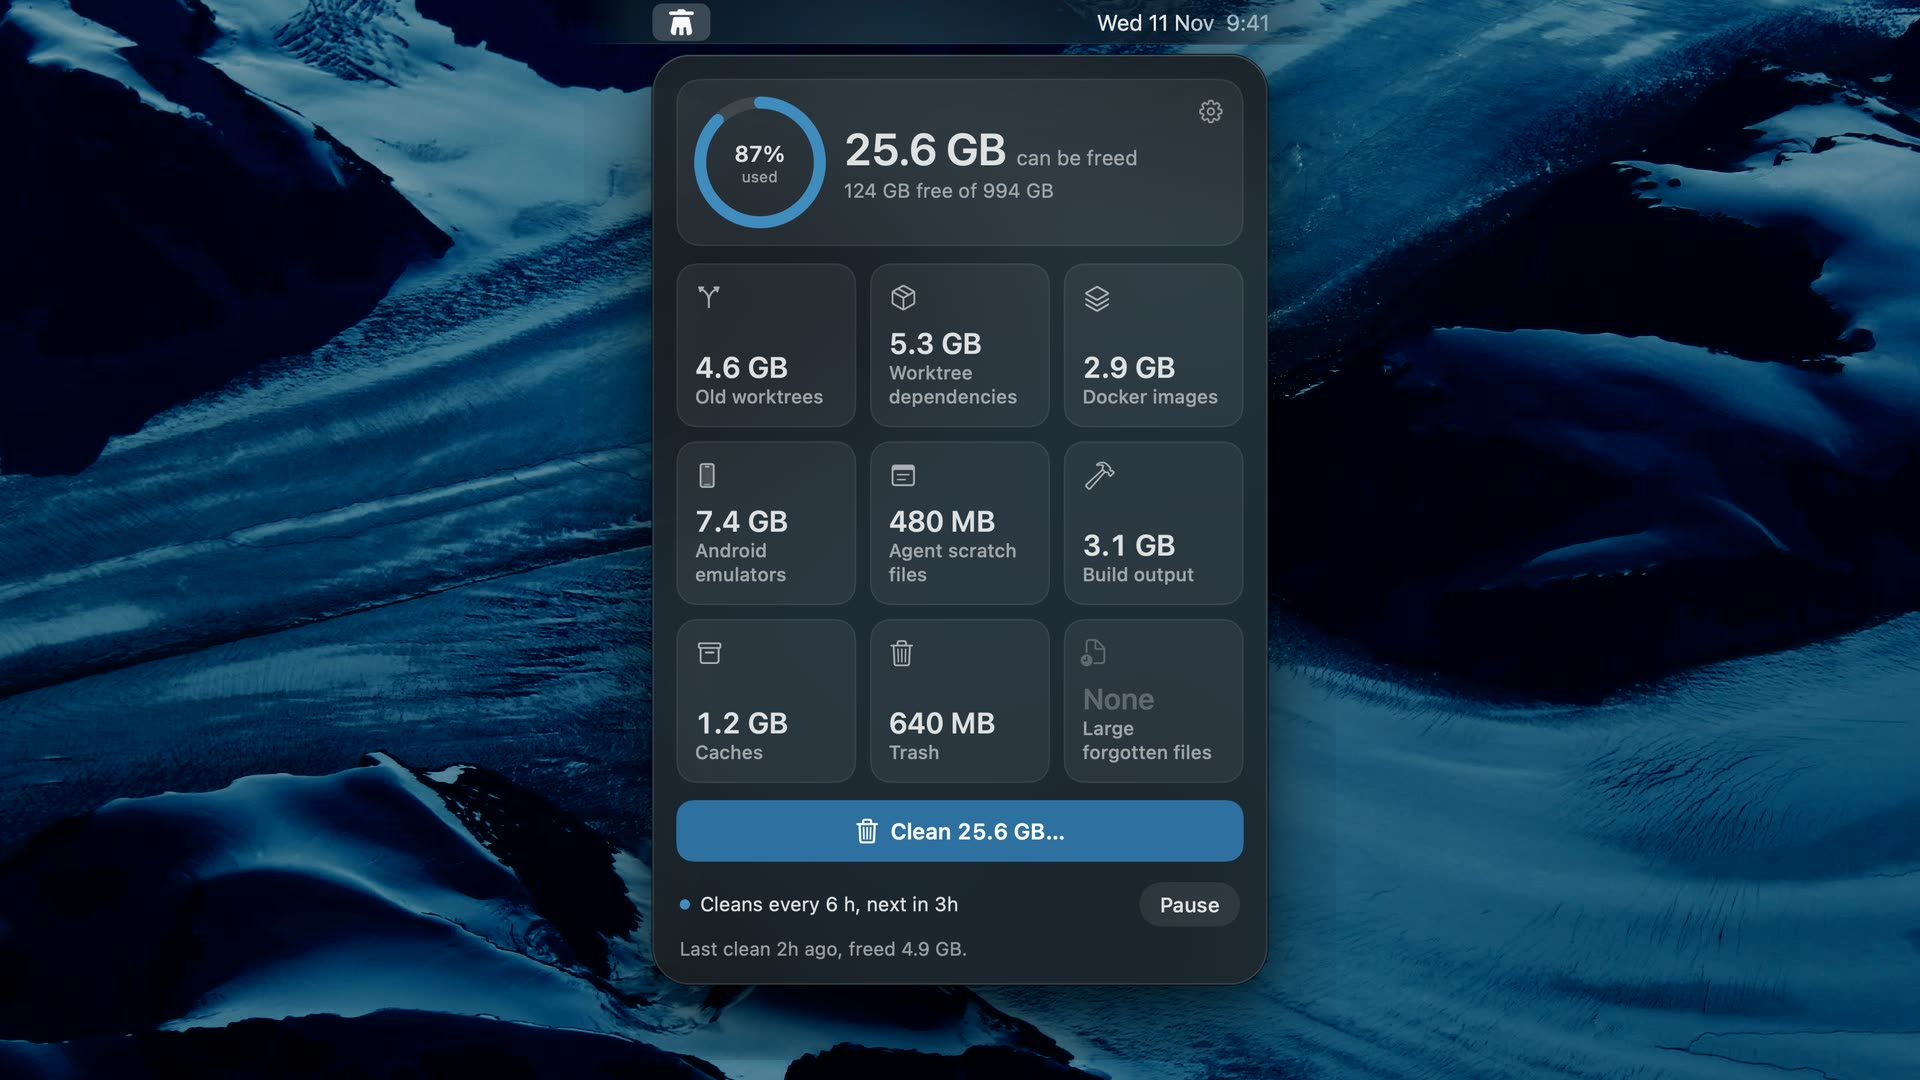
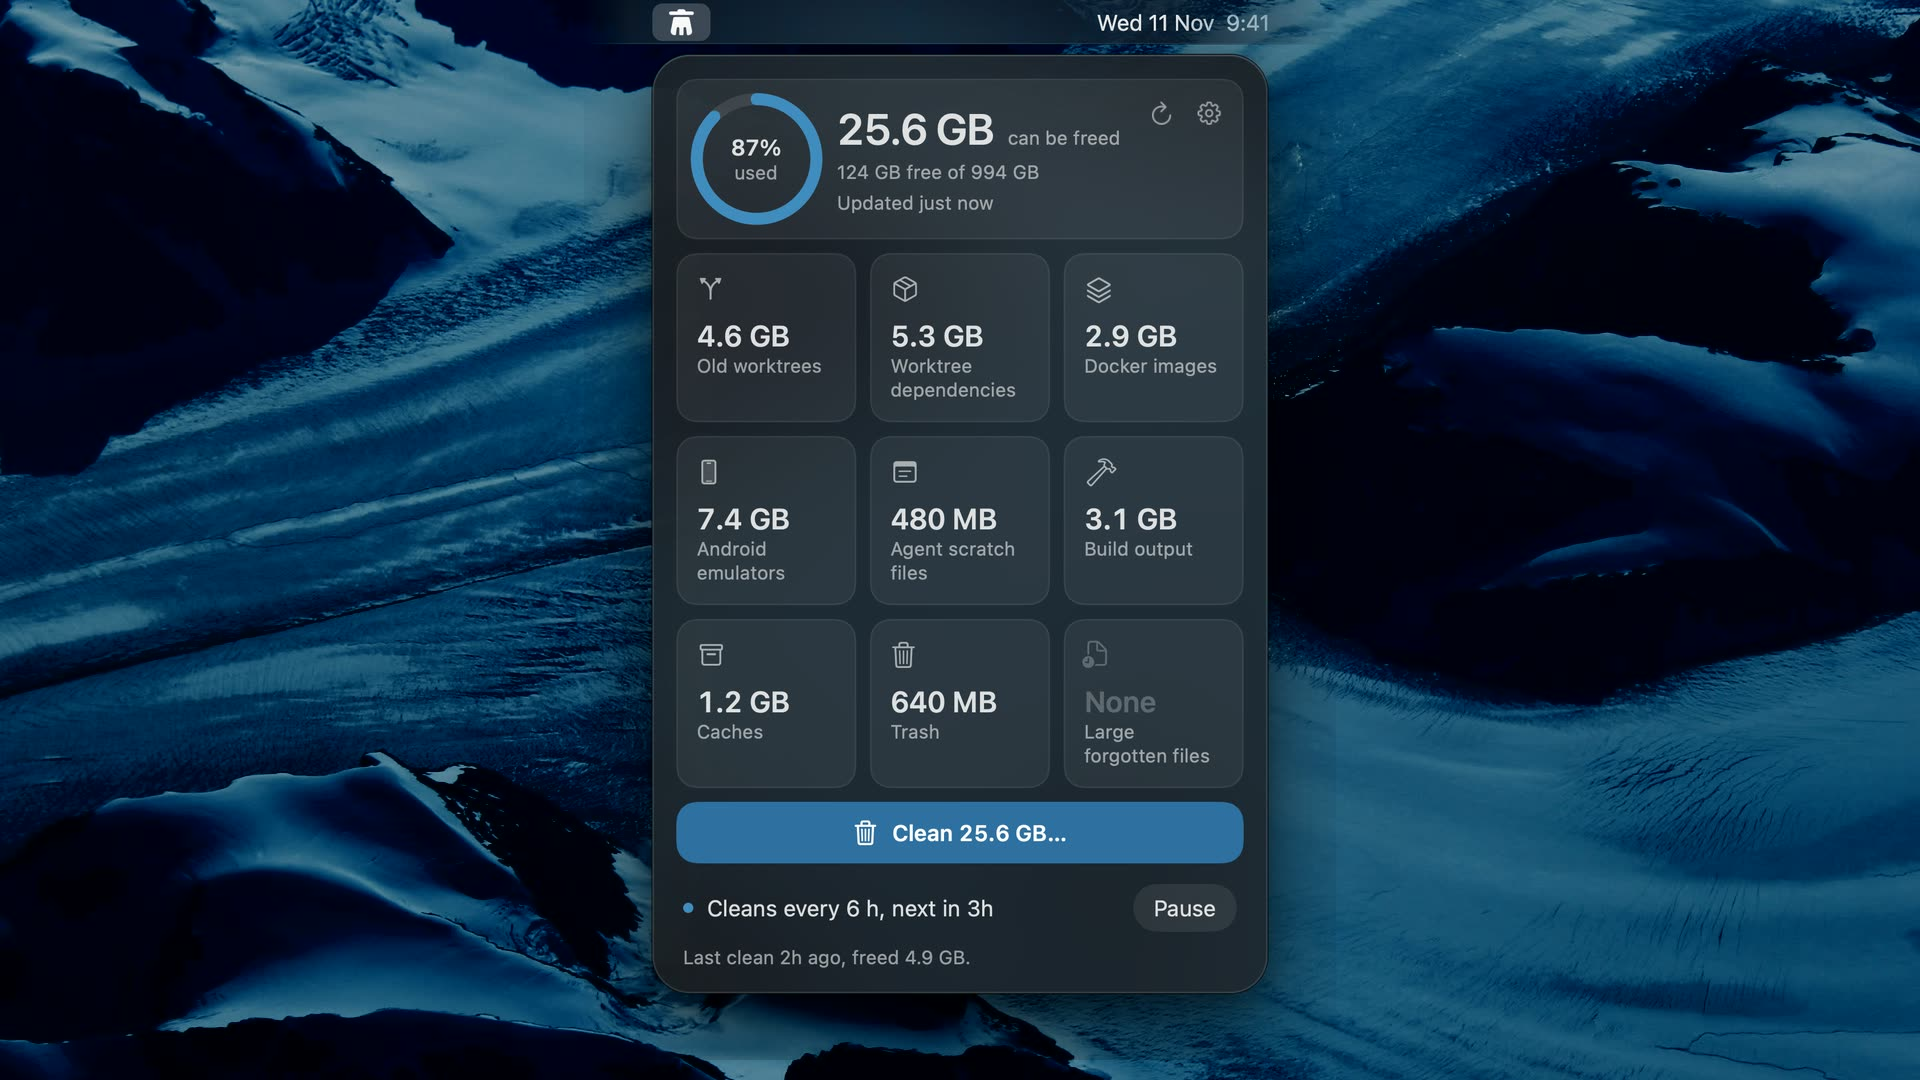
Apply the design rules to the site
Type tokens and the 4-point scale in styles.css, one hero button until the demo
video exists, a border-only hero card and the panel image re-rendered from the
current app.

diff --git a/site/styles.css b/site/styles.css
@@ -8,6 +8,10 @@
   --sans: "Geist", system-ui, -apple-system, sans-serif;
   --mono: "Geist Mono", ui-monospace, "SF Mono", Menlo, monospace;
   --col: 1080px;
+  --title: clamp(36px, 5.4vw, 56px);
+  --heading: clamp(24px, 3.4vw, 32px);
+  --body: 16px;
+  --label: 13px;
   --spring: cubic-bezier(.3, 1.5, .5, 1);
   color-scheme: dark;
 }
@@ -19,43 +23,43 @@ body {
   background: var(--bg);
   color: var(--fg);
   font-family: var(--sans);
-  font-size: 16px;
-  line-height: 1.55;
+  font-size: var(--body);
+  line-height: 1.5;
   -webkit-font-smoothing: antialiased;
 }
 img { display: block; max-width: 100%; height: auto; }
+[hidden] { display: none !important; }
 a { color: inherit; }
 a, button, summary { cursor: pointer; -webkit-tap-highlight-color: transparent; }
-:focus-visible { outline: 2px solid var(--fg); outline-offset: 3px; border-radius: 10px; }
+:focus-visible { outline: 2px solid var(--fg); outline-offset: 4px; border-radius: 12px; }
 
 .wrap { width: 100%; max-width: var(--col); margin: 0 auto; padding-inline: max(20px, env(safe-area-inset-left, 0px)) max(20px, env(safe-area-inset-right, 0px)); }
 
-.nav { position: relative; z-index: 3; display: flex; align-items: center; justify-content: space-between; padding-block: 22px; }
-.brand { display: inline-flex; align-items: center; gap: 10px; font-weight: 600; font-size: 16px; letter-spacing: -0.01em; text-decoration: none; }
-.brand img { width: 30px; height: 30px; border-radius: 7px; }
-.brand.small { gap: 8px; font-size: 12.5px; }
-.brand.small img { width: 18px; height: 18px; border-radius: 4px; }
-.links { display: flex; align-items: center; gap: 2px; margin-right: -8px; }
-.links a { display: inline-flex; align-items: center; height: 36px; padding: 0 12px; border-radius: 10px; font-size: 14px; color: var(--muted); text-decoration: none; transition: background .15s ease, color .15s ease; }
+.nav { position: relative; z-index: 3; display: flex; align-items: center; justify-content: space-between; padding-block: 24px; }
+.brand { display: inline-flex; align-items: center; gap: 8px; font-weight: 600; font-size: var(--body); letter-spacing: -0.01em; text-decoration: none; }
+.brand img { width: 32px; height: 32px; border-radius: 8px; }
+.brand.small { font-size: var(--label); }
+.brand.small img { width: 16px; height: 16px; border-radius: 4px; }
+.links { display: flex; align-items: center; gap: 4px; margin-right: -8px; }
+.links a { display: inline-flex; align-items: center; height: 36px; padding: 0 12px; border-radius: 12px; font-size: var(--label); color: var(--muted); text-decoration: none; transition: background .15s ease, color .15s ease; }
 .links a:hover { background: var(--fill); color: var(--fg); }
 .links .icon { width: 36px; padding: 0; justify-content: center; color: var(--fg); }
-.links svg { width: 18px; height: 18px; fill: currentColor; }
+.links svg { width: 20px; height: 20px; fill: currentColor; }
 
-h1 { margin: 0; font-weight: 600; font-size: clamp(36px, 5.4vw, 56px); line-height: 1.03; letter-spacing: -0.035em; text-wrap: balance; }
-h2 { margin: 0; font-weight: 600; font-size: clamp(28px, 3.4vw, 38px); line-height: 1.08; letter-spacing: -0.03em; text-wrap: balance; }
-.lede { margin: 0; max-width: 34ch; font-size: 18px; line-height: 1.55; color: var(--muted); text-wrap: pretty; }
+h1 { margin: 0; font-weight: 600; font-size: var(--title); line-height: 1.1; letter-spacing: -0.035em; text-wrap: balance; }
+h2 { margin: 0; font-weight: 600; font-size: var(--heading); line-height: 1.15; letter-spacing: -0.03em; text-wrap: balance; }
+.lede { margin: 0; max-width: 40ch; font-size: var(--body); line-height: 1.5; color: var(--muted); text-wrap: pretty; }
 
-.btn { display: inline-flex; align-items: center; gap: 9px; height: 46px; padding: 0 20px; border: 0; border-radius: 12px; font: 500 15px var(--sans); text-decoration: none; transition: transform .15s ease, background .15s ease; }
+.btn { display: inline-flex; align-items: center; gap: 8px; height: 48px; padding: 0 24px; border: 0; border-radius: 12px; font: 600 var(--body) var(--sans); text-decoration: none; transition: transform .15s ease, background .15s ease; }
 .btn:hover { transform: translateY(-1px); }
-.btn svg { width: 15px; height: 15px; fill: currentColor; }
+.btn svg { width: 16px; height: 16px; fill: currentColor; }
 .btn.main { background: #fff; color: #000; }
 .btn.main svg { margin-top: -2px; }
 .btn.ghost { background: rgba(255, 255, 255, 0.14); color: var(--fg); }
 .btn.ghost:hover { background: rgba(255, 255, 255, 0.2); }
-.btn.ghost svg { width: 13px; height: 13px; }
-.meta { margin: 0; font: 400 11.5px var(--mono); color: var(--muted); }
+.meta { margin: 0; font: 400 var(--label) var(--mono); color: var(--muted); }
 
-.stage { position: relative; isolation: isolate; overflow: hidden; display: flex; flex-direction: column; min-height: clamp(640px, 100svh, 980px); padding-bottom: 72px; background: #000; }
+.stage { position: relative; isolation: isolate; overflow: hidden; display: flex; flex-direction: column; min-height: clamp(640px, 100svh, 980px); padding-bottom: 64px; background: #000; }
 .photo { position: absolute; inset: 0; z-index: -2; }
 .photo img { width: 100%; height: 100%; object-fit: cover; filter: brightness(.5) saturate(.92); }
 .stage::before {
@@ -67,84 +71,78 @@ h2 { margin: 0; font-weight: 600; font-size: clamp(28px, 3.4vw, 38px); line-heig
 }
 
 .intro {
-  position: relative; z-index: 2; margin: auto; width: calc(100% - 40px); max-width: 580px; padding: 42px 32px 34px;
+  position: relative; z-index: 2; margin: auto; width: calc(100% - 40px); max-width: 580px; padding: 48px 32px 32px;
   display: flex; flex-direction: column; align-items: center; gap: 16px; text-align: center;
-  border-radius: 26px; background: rgba(10, 10, 10, 0.42);
-  box-shadow: inset 0 0 0 1px rgba(255, 255, 255, 0.12), 0 30px 80px -30px rgba(0, 0, 0, 0.6);
+  border-radius: 24px; background: rgba(10, 10, 10, 0.42);
+  box-shadow: inset 0 0 0 1px rgba(255, 255, 255, 0.12);
   backdrop-filter: blur(20px) saturate(1.1); -webkit-backdrop-filter: blur(20px) saturate(1.1);
   animation: rise .7s var(--spring) both;
 }
 .intro .lede { color: rgba(255, 255, 255, 0.76); }
-.ctas { display: flex; flex-wrap: wrap; justify-content: center; gap: 10px; margin-top: 8px; }
+.ctas { display: flex; flex-wrap: wrap; justify-content: center; gap: 8px; margin-top: 8px; }
 @keyframes rise { from { opacity: 0; transform: translateY(18px); } to { opacity: 1; transform: none; } }
 
-.tour { display: grid; grid-template-columns: minmax(0, 0.9fr) minmax(0, 1fr); gap: 72px; align-items: center; padding-block: 56px 96px; }
+.tour { display: grid; grid-template-columns: minmax(0, 0.9fr) minmax(0, 1fr); gap: 64px; align-items: center; padding-block: 64px 96px; }
 .shot img { display: block; width: 100%; max-width: 500px; height: auto; margin-inline: auto; }
 .tour-copy p { margin: 16px 0 0; max-width: 46ch; color: var(--muted); }
-.rows { list-style: none; margin: 28px 0 0; padding: 0; border-top: 1px solid var(--line); }
-.rows li { display: flex; justify-content: space-between; align-items: baseline; gap: 20px; padding: 13px 0; border-bottom: 1px solid var(--line); font-size: 15px; }
-.rows b { flex: none; font-weight: 500; }
+.rows { list-style: none; margin: 24px 0 0; padding: 0; border-top: 1px solid var(--line); }
+.rows li { display: flex; justify-content: space-between; align-items: baseline; gap: 24px; padding: 12px 0; border-bottom: 1px solid var(--line); }
+.rows b { flex: none; font-weight: 600; }
 .rows span { color: var(--faint); text-align: right; text-wrap: balance; }
-.more { display: inline-flex; align-items: center; gap: 8px; margin-top: 26px; font-size: 15px; font-weight: 500; text-decoration: none; border-bottom: 1px solid var(--faint); padding-bottom: 2px; transition: border-color .15s ease; }
+.more { display: inline-flex; align-items: center; gap: 8px; margin-top: 24px; font-weight: 600; text-decoration: none; border-bottom: 1px solid var(--faint); padding-bottom: 4px; transition: border-color .15s ease; }
 .more:hover { border-color: var(--fg); }
 
-.foot { display: flex; flex-wrap: wrap; align-items: center; gap: 12px 22px; padding-block: 32px 48px; border-top: 1px solid var(--line); font: 400 12px var(--mono); color: var(--faint); }
+.foot { display: flex; flex-wrap: wrap; align-items: center; gap: 12px 24px; padding-block: 32px 48px; border-top: 1px solid var(--line); font: 400 var(--label) var(--mono); color: var(--faint); }
 .foot a { color: var(--fg); text-decoration: none; border-bottom: 1px solid var(--line); }
 .foot a:hover { border-color: var(--fg); }
 .foot .credits { flex-basis: 100%; }
 
 .page .nav { border-bottom: 1px solid var(--line); }
-.intro-page { padding-block: 72px 56px; }
-.intro-page .lede { margin-top: 18px; max-width: 52ch; }
+.intro-page { padding-block: 64px 48px; }
+.intro-page .lede { margin-top: 16px; max-width: 52ch; }
 .band { padding-block: 64px; border-top: 1px solid var(--line); }
 .split { display: grid; grid-template-columns: 1fr 1fr; gap: 64px; }
 .sub { margin: 12px 0 0; max-width: 46ch; color: var(--muted); }
 .list { list-style: none; margin: 28px 0 0; padding: 0; border-top: 1px solid var(--line); }
-.list li { padding: 14px 0; border-bottom: 1px solid var(--line); color: var(--muted); }
-.list b { color: var(--fg); font-weight: 500; }
+.list li { padding: 16px 0; border-bottom: 1px solid var(--line); color: var(--muted); }
+.list b { color: var(--fg); font-weight: 600; }
 figure { margin: 0; }
 
 .faq { padding-block: 64px; border-top: 1px solid var(--line); }
 .faq h2 { margin-bottom: 16px; }
 .faq-list { max-width: 720px; }
 details { border-bottom: 1px solid var(--line); }
-summary { list-style: none; display: flex; justify-content: space-between; align-items: center; gap: 16px; padding: 18px 0; font-weight: 500; font-size: 17px; border-radius: 0; }
+summary { list-style: none; display: flex; justify-content: space-between; align-items: center; gap: 16px; padding: 16px 0; font-weight: 600; border-radius: 0; }
 summary::-webkit-details-marker { display: none; }
-summary::after { content: "+"; font: 400 20px var(--mono); color: var(--faint); transition: transform .25s var(--spring); }
+summary::after { content: "+"; font: 400 var(--body) var(--mono); color: var(--faint); transition: transform .25s var(--spring); }
 details[open] summary::after { transform: rotate(45deg); }
-details p { margin: 0 0 20px; max-width: 62ch; color: var(--muted); }
+details p { margin: 0 0 16px; max-width: 62ch; color: var(--muted); }
 
-.player { width: min(1100px, calc(100vw - 32px)); max-width: none; padding: 0; border: 0; border-radius: 18px; background: #000; color: var(--fg); overflow: visible; box-shadow: 0 0 0 1px var(--line), 0 40px 90px -30px rgba(0, 0, 0, 0.9); }
+.player { width: min(1100px, calc(100vw - 32px)); max-width: none; padding: 0; border: 0; border-radius: 24px; background: #000; color: var(--fg); overflow: visible; box-shadow: 0 0 0 1px var(--line); }
 .player::backdrop { background: rgba(0, 0, 0, 0.8); backdrop-filter: blur(8px); -webkit-backdrop-filter: blur(8px); }
 .player[open] { animation: pop .35s var(--spring) both; }
 @keyframes pop { from { opacity: 0; transform: scale(.96); } to { opacity: 1; transform: none; } }
-.frame { aspect-ratio: 16 / 9; border-radius: 18px; overflow: hidden; background: #000; }
-.frame video, .soon img { display: block; width: 100%; height: 100%; object-fit: cover; }
-.soon { position: relative; height: 100%; }
-.soon img { filter: brightness(0.55); }
-.soon-note { position: absolute; left: 50%; bottom: 28px; transform: translateX(-50%); display: flex; flex-direction: column; align-items: center; gap: 4px; padding: 14px 20px; border-radius: 14px; text-align: center; background: rgba(0, 0, 0, 0.6); box-shadow: inset 0 0 0 1px var(--line); backdrop-filter: blur(12px); -webkit-backdrop-filter: blur(12px); }
-.soon-note b { font-weight: 600; font-size: 16px; }
-.soon-note span { font-size: 13.5px; color: var(--muted); }
-.close { position: absolute; top: -14px; right: -14px; width: 36px; height: 36px; border-radius: 50%; border: 0; display: grid; place-items: center; background: #fff; color: #000; box-shadow: 0 8px 20px -8px rgba(0, 0, 0, 0.8); transition: transform .2s var(--spring); }
+.frame { aspect-ratio: 16 / 9; border-radius: 24px; overflow: hidden; background: #000; }
+.frame video { display: block; width: 100%; height: 100%; object-fit: cover; }
+.close { position: absolute; top: -16px; right: -16px; width: 36px; height: 36px; border-radius: 50%; border: 0; display: grid; place-items: center; background: #fff; color: #000; transition: transform .2s var(--spring); }
 .close:hover { transform: scale(1.08); }
-.close svg { width: 14px; height: 14px; stroke: currentColor; stroke-width: 2.2; stroke-linecap: round; fill: none; }
+.close svg { width: 16px; height: 16px; stroke: currentColor; stroke-width: 2.2; stroke-linecap: round; fill: none; }
 
 @media (max-width: 900px) {
-  .tour, .split { grid-template-columns: minmax(0, 1fr); gap: 44px; }
+  .tour, .split { grid-template-columns: minmax(0, 1fr); gap: 48px; }
   .shot img { max-width: 400px; }
-  .tour { row-gap: 20px; }
+  .tour { row-gap: 24px; }
 }
 
 @media (max-width: 640px) {
-  .lede { font-size: 16.5px; }
-  .intro { padding: 30px 18px 26px; border-radius: 22px; }
+  .intro { padding: 32px 16px 24px; }
   .ctas { width: 100%; flex-direction: column; }
   .btn { justify-content: center; }
-  .rows li { flex-direction: column; gap: 2px; }
+  .rows li { flex-direction: column; gap: 4px; }
   .rows span { text-align: left; }
   .page .links a:not(.icon):not(.home-link) { display: none; }
-  .soon-note { bottom: 12px; padding: 10px 14px; width: calc(100% - 24px); }
-  .close { top: -44px; right: 0; }
+  .close { top: -48px; right: 0; }
+
 }
 
 @media (prefers-reduced-motion: reduce) {

diff --git a/site/index.html b/site/index.html
@@ -67,7 +67,7 @@
           <svg viewBox="0 0 24 24" aria-hidden="true"><path d="M16.4 12.6c0-2.4 2-3.5 2-3.6-1.1-1.6-2.8-1.8-3.4-1.8-1.4-.2-2.8.9-3.5.9-.7 0-1.9-.8-3.1-.8-1.6 0-3 .9-3.8 2.3-1.6 2.8-.4 7 1.2 9.3.8 1.1 1.7 2.4 2.9 2.3 1.2 0 1.6-.7 3-.7s1.8.7 3.1.7c1.3 0 2.1-1.1 2.8-2.3.9-1.3 1.3-2.5 1.3-2.6 0 0-2.5-1-2.5-3.7zM14.1 5.5c.6-.8 1.1-1.9 1-3-.9 0-2.1.6-2.7 1.4-.6.7-1.1 1.8-1 2.9 1 .1 2.1-.5 2.7-1.3z"/></svg>
           Download for Mac
         </a>
-        <button class="btn ghost" type="button" id="watch" aria-haspopup="dialog">
+        <button class="btn ghost" type="button" id="watch" aria-haspopup="dialog" hidden>
           <svg viewBox="0 0 24 24" aria-hidden="true"><path d="M8 5.2v13.6a1 1 0 0 0 1.5.86l11-6.8a1 1 0 0 0 0-1.72l-11-6.8A1 1 0 0 0 8 5.2z"/></svg>
           Watch video
         </button>
@@ -113,15 +113,7 @@
   </button>
 </dialog>
 
-<template id="soon">
-  <div class="soon">
-    <img src="assets/demo-poster.jpg" alt="">
-    <div class="soon-note">
-      <b>Video coming soon</b>
-      <span>A short tour of a scan and a clean is on its way.</span>
-    </div>
-  </div>
-</template>
+
 
 <script src="player.js" defer></script>
 <script src="toy.js" defer></script>

diff --git a/scripts/panel.html b/scripts/panel.html
@@ -11,9 +11,10 @@ html,body{margin:0;background:transparent}
 .glyph{left:40px;width:34px;border-radius:6px;background:rgba(255,255,255,.2)}
 .glyph i{width:18px;height:18px;background:#fff;-webkit-mask:url(../assets/menubar.svg) center/contain no-repeat}
 .clock{left:300px}
-.panel{--x:40px;--y:32px;left:40px;top:32px;width:360px;height:544px;border-radius:22px;box-shadow:0 0 0 .5px rgba(0,0,0,.9),0 24px 60px rgba(0,0,0,.55),0 8px 20px rgba(0,0,0,.35)}
+.panel{--x:40px;--y:32px;left:40px;top:32px;width:360px;border-radius:22px;box-shadow:0 0 0 .5px rgba(0,0,0,.9),0 24px 60px rgba(0,0,0,.55),0 8px 20px rgba(0,0,0,.35)}
 .panel::after{content:"";position:absolute;inset:0;z-index:-1;border-radius:inherit;background:rgba(30,31,34,.84);box-shadow:inset 0 0 0 1px rgba(255,255,255,.1),inset 0 1px rgba(255,255,255,.08)}
-.panel img{display:block;width:360px;height:544px}
+.panel img{display:block;width:360px;height:auto}
+
 </style>
 <div class=scene>
   <div class="glass bar"><span class="item glyph"><i></i></span><span class="item clock">Wed 11 Nov&nbsp;&nbsp;9:41</span></div>

diff --git a/site/player.js b/site/player.js
@@ -14,7 +14,7 @@ async function videoExists() {
   }
 }
 
-function showVideo() {
+function open() {
   const video = document.createElement('video');
   video.src = VIDEO;
   video.poster = POSTER;
@@ -22,24 +22,21 @@ function showVideo() {
   video.autoplay = true;
   video.playsInline = true;
   frame.replaceChildren(video);
-}
-
-function showComingSoon() {
-  frame.replaceChildren(document.getElementById('soon').content.cloneNode(true));
-}
-
-async function open() {
-  frame.replaceChildren();
   player.showModal();
-  if (await videoExists()) {
-    showVideo();
-  } else {
-    showComingSoon();
-  }
 }
 
 function close() {
   player.close();
+}
+
+async function offerVideo() {
+  if (!(await videoExists())) {
+    return;
+  }
+  watch.hidden = false;
+  if (location.hash === '#video') {
+    open();
+  }
 }
 
 watch.addEventListener('click', open);
@@ -51,6 +48,4 @@ player.addEventListener('click', event => {
 });
 player.addEventListener('close', () => frame.replaceChildren());
 
-if (location.hash === '#video') {
-  open();
-}
+offerVideo();

diff --git a/docs/design-rules.md b/docs/design-rules.md
@@ -81,7 +81,15 @@ before doing it.
 ## Site
 
 - The same palette, one accent, four type sizes and the 4-point scale apply to
-  site/. Every link and button gets `cursor: pointer`.
+  site/. The sizes are tokens in styles.css: `--title` (36 to 56), `--heading`
+  (24 to 32), `--body` 16, `--label` 13. Weights 400 and 600.
+- Radii: 12 for buttons and nav links, 24 for cards and dialogs. A card gets a 1px
+  inset line or a soft shadow, never both.
+- One primary button in the hero. A second action appears only when it leads
+  somewhere real (the video button stays hidden until assets/demo.mp4 exists).
+- Every link and button gets `cursor: pointer`. The folder toy (toy.js, toy.css)
+  keeps its own styling.
+
 - Show the real app: screenshots and the panel rendered from the app's own snapshot
   fixtures, never an invented mockup.
 
